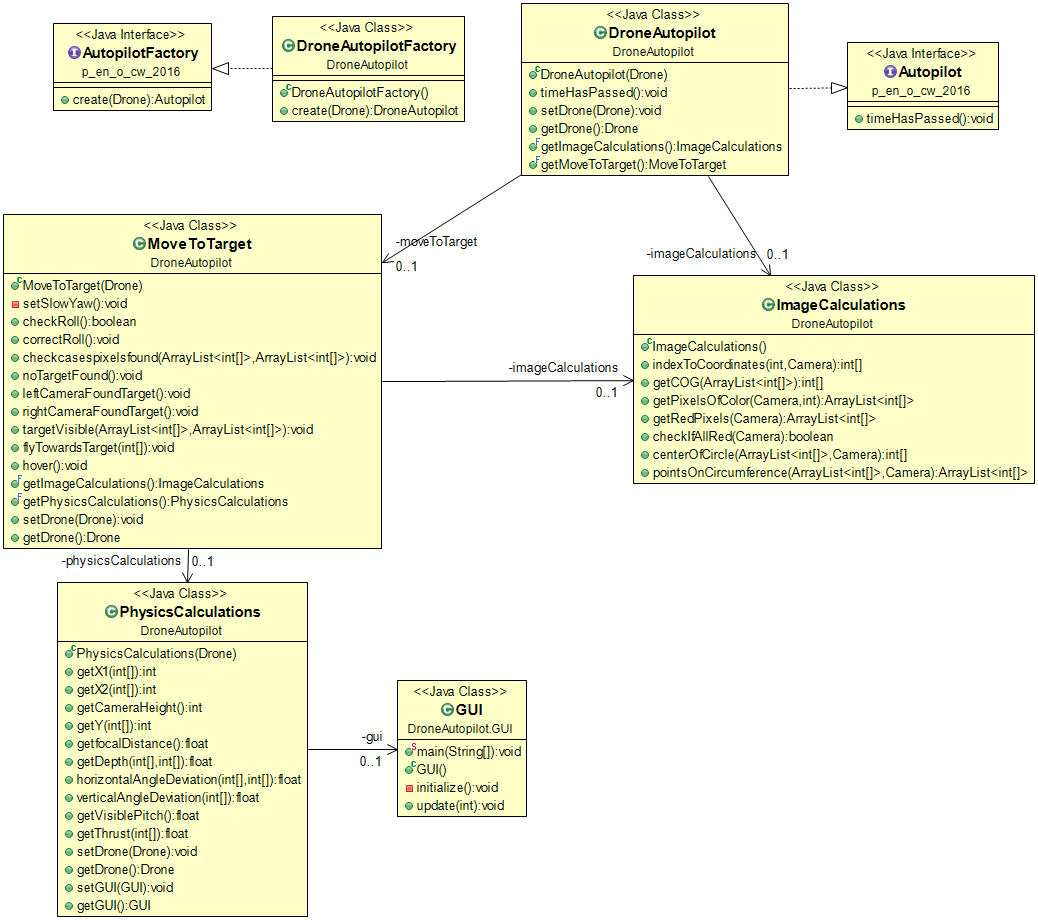
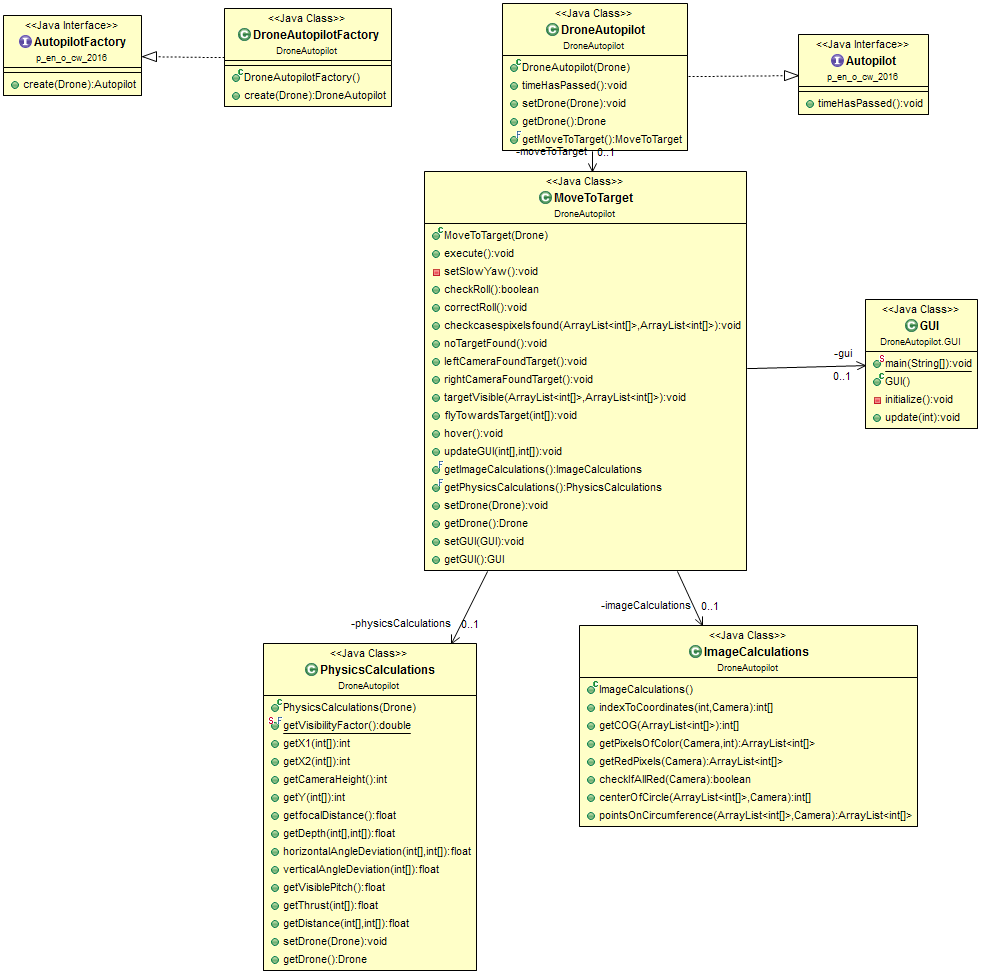
vanalles fix

diff --git a/Workspace_PenO_CW/PenO Drone Simulation/src/DroneAutopilot/PhysicsCalculations.java b/Workspace_PenO_CW/PenO Drone Simulation/src/DroneAutopilot/PhysicsCalculations.java
@@ -1,6 +1,5 @@
 package DroneAutopilot;
 
-import DroneAutopilot.GUI.GUI;
 import p_en_o_cw_2016.Drone;
 
 public class PhysicsCalculations {
@@ -13,14 +12,24 @@ public class PhysicsCalculations {
 		return PhysicsCalculations.visibilityFactor;
 	}
 	private static final double visibilityFactor = 0.8;
+	
+	public static final double getDecelerationFactor(){
+		return PhysicsCalculations.decelerationFactor;
+	}
+	private static final double decelerationFactor = 0.3;
+	
+	public static float getDecelerationDistance() {
+		return DecelerationDistance;
+	}
+	private static final float DecelerationDistance = 2;
 
-	public int getX1(int[] centerofGravityL){
-		int distance = centerofGravityL[0] - this.getDrone().getLeftCamera().getWidth()/2;
+	public float getX1(float[] centerofGravityL){
+		float distance = centerofGravityL[0] - this.getDrone().getLeftCamera().getWidth()/2;
 		return distance;
 	}
 	
-	public int getX2(int[] centerofGravityR){
-		int distance = centerofGravityR[0] - this.getDrone().getRightCamera().getWidth()/2;
+	public float getX2(float[] centerofGravityR){
+		float distance = centerofGravityR[0] - this.getDrone().getRightCamera().getWidth()/2;
 		return distance;
 	}
 	
@@ -32,8 +41,8 @@ public class PhysicsCalculations {
 		return height;
 	}
 	
-	public int getY(int[] centerofGravity){
-		int distance = centerofGravity[1] - this.getCameraHeight()/2;
+	public float getY(float[] centerofGravity){
+		float distance = centerofGravity[1] - this.getCameraHeight()/2;
 		return distance;
 	}
 	
@@ -42,61 +51,49 @@ public class PhysicsCalculations {
 		return focal;
 	}
 	
-	public float getDepth(int[] centerOfGravityL, int[]centerOfGravityR){
-		float depth = (this.getDrone().getCameraSeparation() * this.getfocalDistance())/(this.getX1(centerOfGravityL) - this.getX2(centerOfGravityR));
+	public float getDepth(float[] centerOfGravityL, float[]centerOfGravityR){
+		float depth=0;
+		try{
+		depth = (this.getDrone().getCameraSeparation() * this.getfocalDistance())/(this.getX1(centerOfGravityL) - this.getX2(centerOfGravityR));
 		depth = Math.abs(depth);
+		} catch(IllegalArgumentException e){
+		}
 		return depth;
 	}
 		
-	public float horizontalAngleDeviation(int[] centerOfGravityL, int[] centerOfGravityR){
+	public float horizontalAngleDeviation(float[] centerOfGravityL, float[] centerOfGravityR){
 		float x = (this.getDepth(centerOfGravityL, centerOfGravityR) * Math.abs(this.getX1(centerOfGravityL))) / this.getfocalDistance();
 		float tanAlfa = (x - this.getDrone().getCameraSeparation()/2) / this.getDepth(centerOfGravityL, centerOfGravityR);
 		return (float) Math.toDegrees(Math.atan(tanAlfa));
 	}
 	
-	public float verticalAngleDeviation(int[] centerOfGravity){
+	public float verticalAngleDeviation(float[] centerOfGravity){
 		//System.out.println(this.getY(pointOfGravity));
 		return (float) Math.toDegrees(Math.atan(this.getY(centerOfGravity) / this.getfocalDistance()));
 	}
 	
-	public float getVisiblePitch(){
-		return (float) ((this.getDrone().getLeftCamera().getVerticalAngleOfView()/2)*getVisibilityFactor());		
+	public float getVisiblePitch(float[] centerOfGravityL, float[] centerOfGravityR){
+		if (this.getDepth(centerOfGravityL, centerOfGravityR) <= this.getDecelerationDistance()){
+			return  (float) ((this.getDrone().getLeftCamera().getVerticalAngleOfView()/2)*getDecelerationFactor());
+		}
+		return (float) ((this.getDrone().getLeftCamera().getVerticalAngleOfView()/2)*getVisibilityFactor());
 	}
 	
-	public float getThrust(int[] cog) {//TODO kies welke versie
-//oorspronkelijke code
-
+	public float getThrust(float[] cog) {//TODO kies welke versie
 		float thrust;
 		float beta = this.verticalAngleDeviation(cog);
-		if (beta >= 0){
-			//System.out.println("beta groter dan of gelijk aan 0");
-			thrust = (float) (-this.getDrone().getGravity()*this.getDrone().getWeight() * Math.cos(Math.toRadians(beta - this.getDrone().getPitch())) / Math.cos(Math.toRadians(beta)));
-			//System.out.println("thrust boven" + thrust);
-		}
-		else{
-			//System.out.println("beta kleiner dan 0");
-			beta = Math.abs(beta);
-			thrust = (float) (-this.getDrone().getGravity()*this.getDrone().getWeight() * Math.cos(Math.toRadians(beta + this.getDrone().getPitch())) / Math.cos(Math.toRadians(beta)));
-			//System.out.println("thrust onder" + thrust);
-		}
+		//System.out.println("beta groter dan of gelijk aan 0");
+		thrust = (float) (-this.getDrone().getGravity()*this.getDrone().getWeight() * Math.cos(Math.toRadians(beta - this.getDrone().getPitch())) / Math.cos(Math.toRadians(beta)));
+		//System.out.println("thrust boven" + thrust);
 		return thrust;
-		
-//versie van vincent		
-//		float beta = (float) Math.toRadians(this.verticalAngleDeviation(cog));
-//		float pitch = (float) Math.toRadians(this.getDrone().getPitch());//opgelet: positieve pitch is naar beneden gericht
-//		float delta = beta-pitch;//de hoek tussen het horizontaal vlak en de camera en de bol (= beta als de drone horizontaal zou hangen)
-//		float gravity = this.getDrone().getGravity();
-//		float weight = this.getDrone().getWeight();
-//		float thrust = (float) (weight*gravity/(Math.sin(pitch)*Math.tan(delta)-Math.cos(pitch)));// zie tekening die ik doorstuur op fb
-//		return thrust;
 	}
 	
-	public float getDistance(int[] centerOfGravityL, int[]centerOfGravityR){
+	public float getDistance(float[] centerOfGravityL, float[]centerOfGravityR){
 		float depth = this.getDepth(centerOfGravityL, centerOfGravityR);
-		float distance = /* depth/(cos(hor)*cos(ver)) */(float) (depth/(Math.cos(Math.toRadians(horizontalAngleDeviation(centerOfGravityL, centerOfGravityR)))*Math.cos(Math.toRadians(verticalAngleDeviation(centerOfGravityL)))));
-		this.getGUI().update((int)distance);//TODO verplaatsen naar MoveToTarget, GUI uit PhysicsCalculations halen
+		float distance = /* depth/(cos(hor)*cos(ver)) */(float) (depth/(Math.cos(Math.toRadians(this.horizontalAngleDeviation(centerOfGravityL, centerOfGravityR)))*Math.cos(Math.toRadians(this.verticalAngleDeviation(centerOfGravityL)))));
 		return distance;
 	}
+	
 	
 	public void setDrone(Drone drone){
 		this.drone = drone;
@@ -104,14 +101,9 @@ public class PhysicsCalculations {
 	public Drone getDrone(){
 		return this.drone;
 	}
+
 	private Drone drone;
 	
 	
-	public void setGUI(GUI gui){
-		this.gui = gui;
-	}
-	public GUI getGUI(){
-		return this.gui;
-	}
-	private GUI gui;
+	
 }

diff --git a/Workspace_PenO_CW/PenO Drone Simulation/src/DroneAutopilot/MoveToTarget.java b/Workspace_PenO_CW/PenO Drone Simulation/src/DroneAutopilot/MoveToTarget.java
@@ -1,6 +1,8 @@
 package DroneAutopilot;
 
 import java.util.ArrayList;
+
+import DroneAutopilot.GUI.GUI;
 import exceptions.EmptyPositionListException;
 import p_en_o_cw_2016.Drone;
 
@@ -77,18 +79,19 @@ public class MoveToTarget{
 	
 	public void targetVisible(ArrayList<int[]> leftCamera, ArrayList<int[]> rightCamera){
 		this.getDrone().setRollRate(0);
-		int[] cogLeft = {0,0};
-		int[] cogRight = {0,0};
+		float[] cogLeft = {0,0};
+		float[] cogRight = {0,0};
 		try{
 			cogLeft = this.getImageCalculations().getCOG(leftCamera);
 			cogRight = this.getImageCalculations().getCOG(rightCamera);
 		} catch (EmptyPositionListException exception){
 			exception.printStackTrace();
 		}
+		this.updateGUI(cogLeft, cogRight);
 		if (this.getPhysicsCalculations().horizontalAngleDeviation(cogLeft,cogRight) >= underBoundary
 				|| this.getPhysicsCalculations().horizontalAngleDeviation(cogLeft,cogRight) <= upperBoundary) {
 			this.getDrone().setYawRate(0);
-			this.flyTowardsTarget(cogLeft);
+			this.flyTowardsTarget(cogLeft,cogRight);
 			}
 		else if (this.getPhysicsCalculations().horizontalAngleDeviation(cogLeft, cogRight) >= underBoundary)
 			this.getDrone().setYawRate(-this.getDrone().getMaxYawRate());
@@ -96,13 +99,13 @@ public class MoveToTarget{
 			this.getDrone().setYawRate(this.getDrone().getMaxYawRate());
 	}
 
-	public void flyTowardsTarget(int[] cog) {
-		if (this.getPhysicsCalculations().getVisiblePitch()-Math.abs(this.getPhysicsCalculations().verticalAngleDeviation(cog)) >= 0) {
+	public void flyTowardsTarget(float[] cogL, float[] cogR) {
+		if (this.getPhysicsCalculations().getVisiblePitch(cogL,cogR)-Math.abs(this.getPhysicsCalculations().verticalAngleDeviation(cogL)) >= 0) {
 			this.getDrone().setPitchRate(this.getDrone().getMaxPitchRate());
 			//System.out.println("pitch");
-			this.getDrone().setThrust(Math.min(this.getPhysicsCalculations().getThrust(cog),this.getDrone().getMaxThrust()));			
+			this.getDrone().setThrust(Math.min(this.getPhysicsCalculations().getThrust(cogL),this.getDrone().getMaxThrust()));			
 		}
-		else if (this.getDrone().getLeftCamera().getVerticalAngleOfView()/2-Math.abs(this.getPhysicsCalculations().verticalAngleDeviation(cog)) <= pitchUpper) {
+		else if (this.getDrone().getLeftCamera().getVerticalAngleOfView()/2-Math.abs(this.getPhysicsCalculations().verticalAngleDeviation(cogL)) <= pitchUpper) {
 			this.getDrone().setPitchRate(-this.getDrone().getMaxPitchRate());
 			System.out.println("terugpitch");
 		}
@@ -111,7 +114,7 @@ public class MoveToTarget{
 			this.getDrone().setRollRate(0);
 			this.getDrone().setYawRate(0);
 			System.out.println("thrust");
-			this.getDrone().setThrust(Math.min(this.getPhysicsCalculations().getThrust(cog),this.getDrone().getMaxThrust()));			
+			this.getDrone().setThrust(Math.min(this.getPhysicsCalculations().getThrust(cogL),this.getDrone().getMaxThrust()));			
 		}
 	
 	}
@@ -130,6 +133,11 @@ public class MoveToTarget{
 			this.getDrone().setThrust(Math.min(this.getDrone().getMaxThrust(), -this.getDrone().getGravity()*this.getDrone().getWeight()));
 		}
 
+	}
+	
+	public void updateGUI(float[] centerOfGravityL, float[] centerOfGravityR){
+		float distance = this.getPhysicsCalculations().getDistance(centerOfGravityL, centerOfGravityR);
+		this.getGUI().update((int)distance);//TODO verplaatsen naar MoveToTarget, GUI uit PhysicsCalculations halen
 	}
 
 
@@ -154,6 +162,13 @@ public class MoveToTarget{
 	}
 	private Drone drone;
 
+	public void setGUI(GUI gui){
+		this.gui = gui;
+	}
+	public GUI getGUI(){
+		return this.gui;
+	}
+	private GUI gui;
 
 
 }

diff --git a/Workspace_PenO_CW/PenO Drone Simulation/src/DroneAutopilot/Tests/PhysicsCalculationsTest.java b/Workspace_PenO_CW/PenO Drone Simulation/src/DroneAutopilot/Tests/PhysicsCalculationsTest.java
@@ -1,7 +1,6 @@
 package DroneAutopilot.Tests;
 
 import DroneAutopilot.PhysicsCalculations;
-import DroneAutopilot.GUI.GUI;
 import p_en_o_cw_2016.Camera;
 import p_en_o_cw_2016.Drone;
 import static org.junit.Assert.*;
@@ -14,11 +13,9 @@ public class PhysicsCalculationsTest {
 	public void setUp() {
 		verticalAngleOfView = (float) (2*Math.toDegrees(Math.atan((((double) heightCamera/ (double) widthCamera)*Math.tan(Math.toRadians(horizontalAngleOfView/2))))));
 		calc = new PhysicsCalculations(drone);
-		gui = new GUI();
 		camera = createCameraForTesting(horizontalAngleOfView, verticalAngleOfView, widthCamera);
 		drone = createDroneForTesting(droneWeight, droneGravity, dronePitch, cameraSeparation, camera, camera);
 		calc.setDrone(drone);
-		calc.setGUI(gui);
 		
 		cOG1 = new int[] {1,1};
 		cOG2 = new int[] {5,80};
@@ -206,12 +203,11 @@ public class PhysicsCalculationsTest {
 	private static final float cameraSeparation = 20;
 	private static final float droneGravity = -10;
 	private static final float droneWeight = 1;
-	private static final float dronePitch = 0;
+	private static final float dronePitch = 15;
 	
 	private Camera camera;
 	private PhysicsCalculations calc;
 	private Drone drone;
-	private GUI gui;
 	
 	private int[] cOG1;
 	private int[] cOG2;

diff --git a/Workspace_PenO_CW/PenO Drone Simulation/src/DroneAutopilot/ImageCalculations.java b/Workspace_PenO_CW/PenO Drone Simulation/src/DroneAutopilot/ImageCalculations.java
@@ -19,10 +19,10 @@ public class ImageCalculations {
 	//zwaartepunt van groepje pixels bepalen
 	//als er geen rode pixels zijn, exception
 	// COG = center of gravity
-	public int[] getCOG (ArrayList<int[]> listOfPixelCoordinates) throws EmptyPositionListException{
-		int sumX = 0;
-		int sumY = 0;
-		int[] cOG = {0,0};
+	public float[] getCOG (ArrayList<int[]> listOfPixelCoordinates) throws EmptyPositionListException{
+		float sumX = 0;
+		float sumY = 0;
+		float[] cOG = {0,0};
 		if(listOfPixelCoordinates.size() == 0){
 			throw new EmptyPositionListException(listOfPixelCoordinates);
 		}

diff --git a/Workspace_PenO_CW/PenO Drone Simulation/src/DroneAutopilot/DroneAutopilot.java b/Workspace_PenO_CW/PenO Drone Simulation/src/DroneAutopilot/DroneAutopilot.java
@@ -19,7 +19,7 @@ public class DroneAutopilot implements Autopilot{
 	public void timeHasPassed() {
 		System.out.println("pitch" + this.getDrone().getPitch());
 		System.out.println("roll" + this.getDrone().getRoll());
-		if (this.getMoveToTarget().getPhysicsCalculations().getGUI().redOrbEnabled) {
+		if (this.getMoveToTarget().getGUI().redOrbEnabled) {
 			this.getMoveToTarget().execute();
 			}else{
 				this.getMoveToTarget().hover();

diff --git a/Workspace_PenO_CW/PenO Drone Simulation/src/DroneAutopilot/DroneAutopilotFactory.java b/Workspace_PenO_CW/PenO Drone Simulation/src/DroneAutopilot/DroneAutopilotFactory.java
@@ -17,7 +17,7 @@ public class DroneAutopilotFactory implements AutopilotFactory{
 	public DroneAutopilot create(Drone drone) {		
 		DroneAutopilot autopilot = new DroneAutopilot(drone);
 		GUI gui = new GUI();
-		autopilot.getMoveToTarget().getPhysicsCalculations().setGUI(gui);
+		autopilot.getMoveToTarget().setGUI(gui);
 		drone.setThrust(-drone.getGravity()*drone.getWeight());
 		drone.setPitchRate(0);
 		drone.setYawRate(0);
